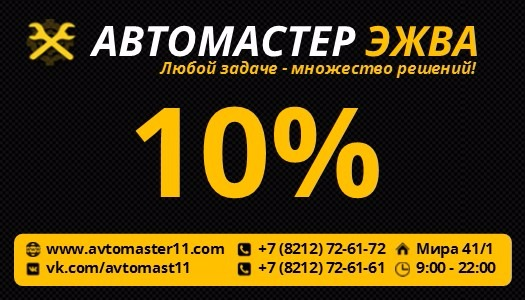
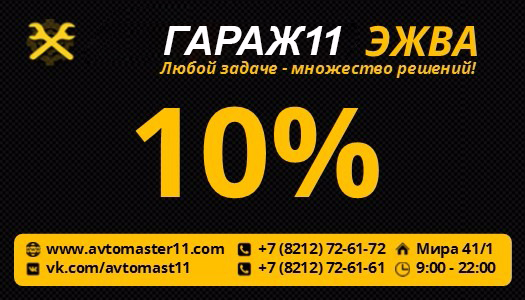
docs: change files

diff --git a/index.html b/index.html
@@ -129,7 +129,7 @@
                     <div class="clearfix"></div>
                 </div>
                 <div id="wb_element_instance1" class="wb_element wb_text_element" style=" line-height: normal;">
-                    <h4 class="wb-stl-pagetitle" style="text-align: left; transform: translateX(200px);"><strong>      <em>ГАРАЖ11 <span style="color:#fccf1b;">ЭЖВА</span></em></strong></h4>
+                    <h4 class="wb-stl-pagetitle" style="text-align: left; transform: translateX(100px);"><strong>      <em>ГАРАЖ11 <span style="color:#fccf1b;">ЭЖВА</span></em></strong></h4>
                 </div>
                 <div id="wb_element_instance2" class="wb_element wb_element_picture" title="СТО">
                     <a href="#home" title="Главная"><img alt="СТО" src="gallery_gen/2c4d2d176f0dbd3a3f529fec681b23ae_58x56.png"></a>
